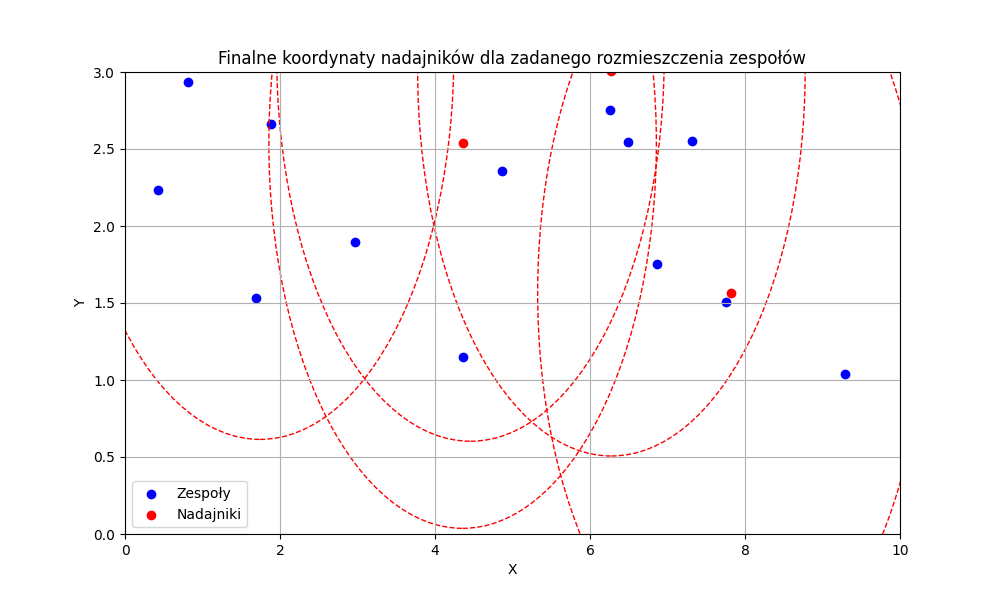
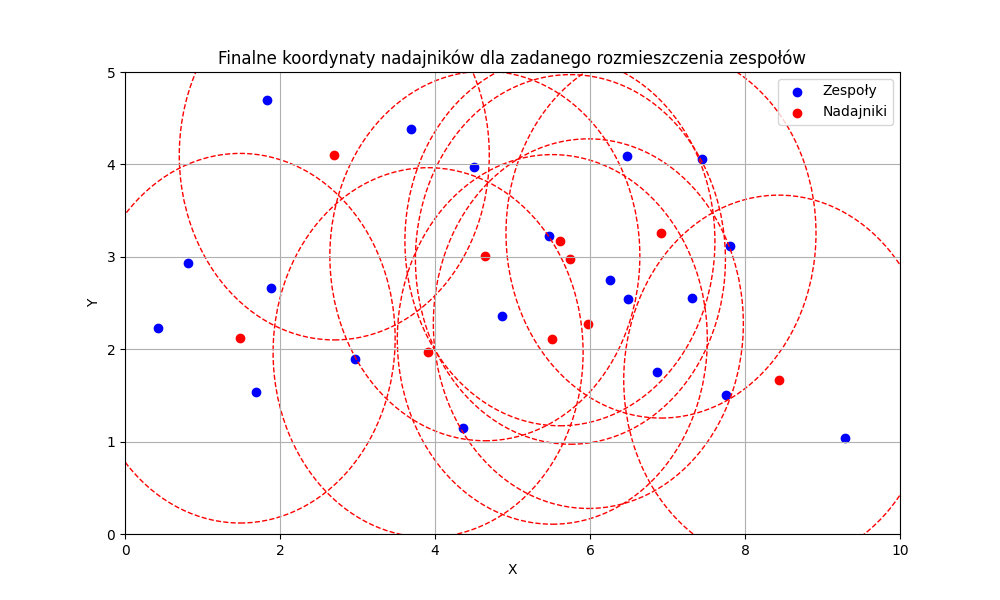
Fix initial population generation

diff --git a/asteroidRelayFinder.py b/asteroidRelayFinder.py
@@ -111,7 +111,7 @@ def setup_toolbox(k, a, b, coordinates, dmax):
     creator.create("Individual", list, fitness=creator.FitnessMulti)
 
     toolbox = base.Toolbox()
-    toolbox.register("individual_near_teams", generate_near_teams, coordinates=coordinates, max_offset=10, k=k, a=a, b=b)
+    toolbox.register("individual_near_teams", generate_near_teams, coordinates=coordinates, max_offset=dmax, k=k, a=a, b=b)
     toolbox.register("individual", tools.initIterate, creator.Individual, toolbox.individual_near_teams)
     toolbox.register("population", tools.initRepeat, list, toolbox.individual)
     toolbox.register("mate", tools.cxBlend, alpha=0.5)
